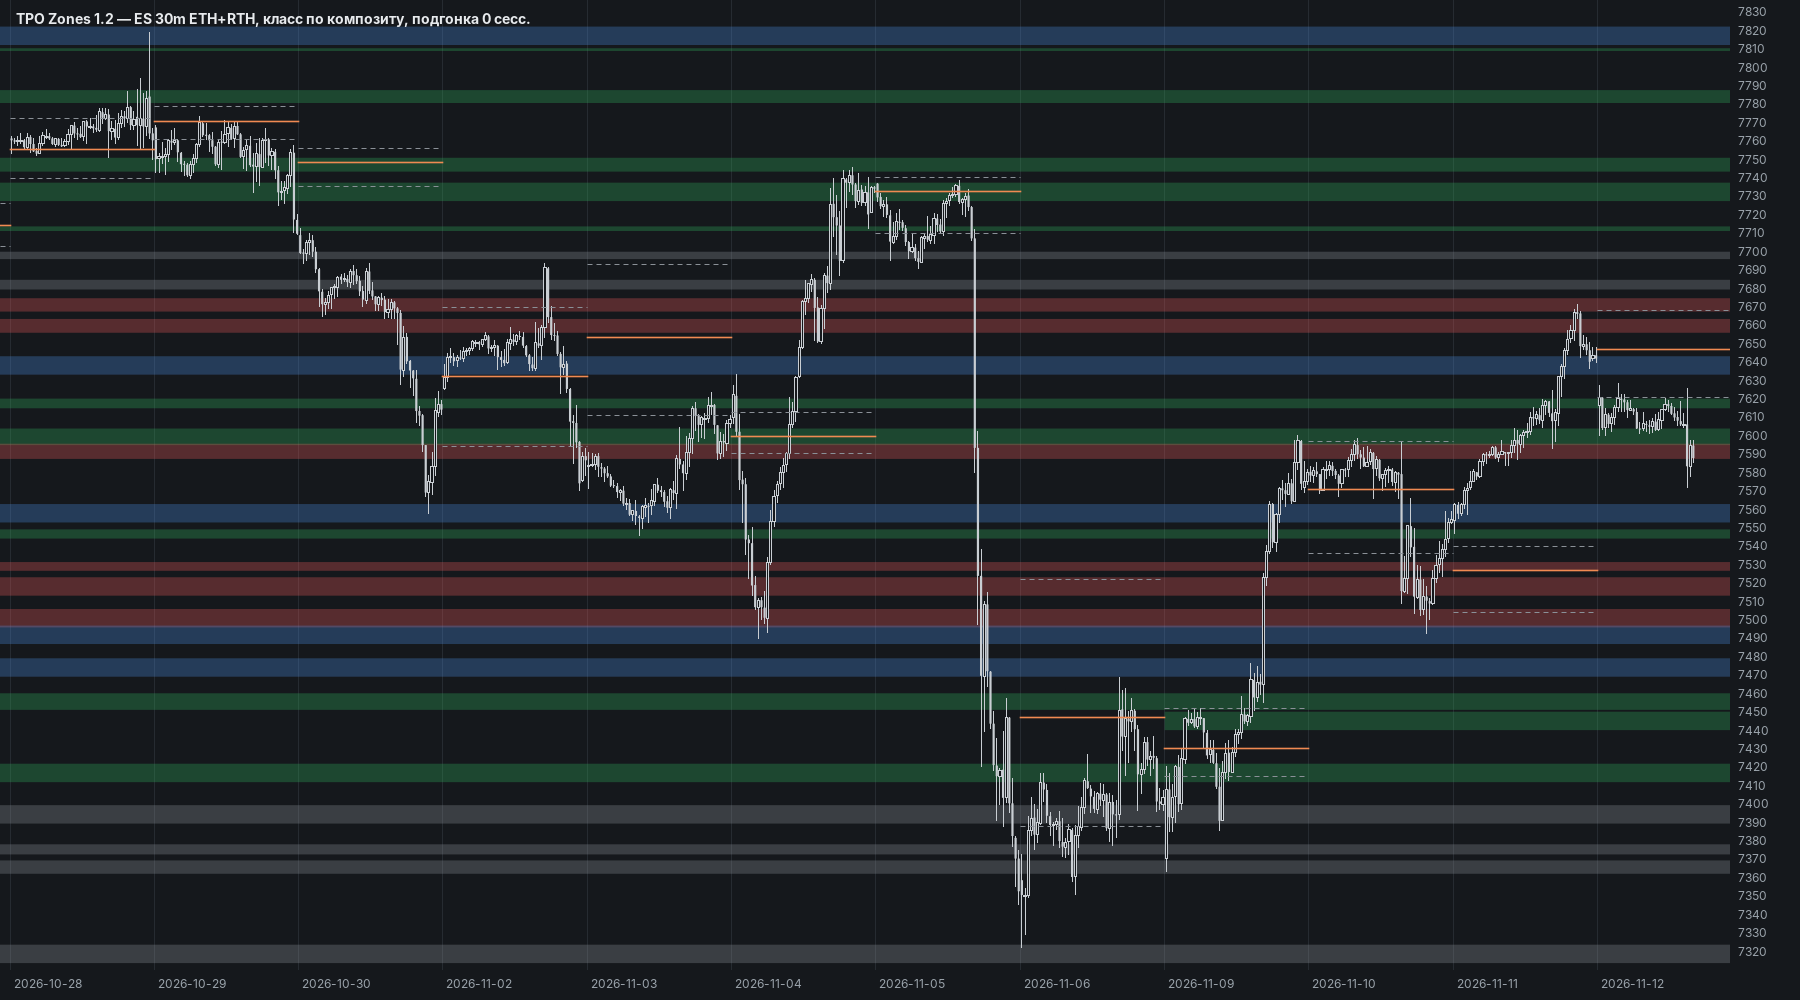
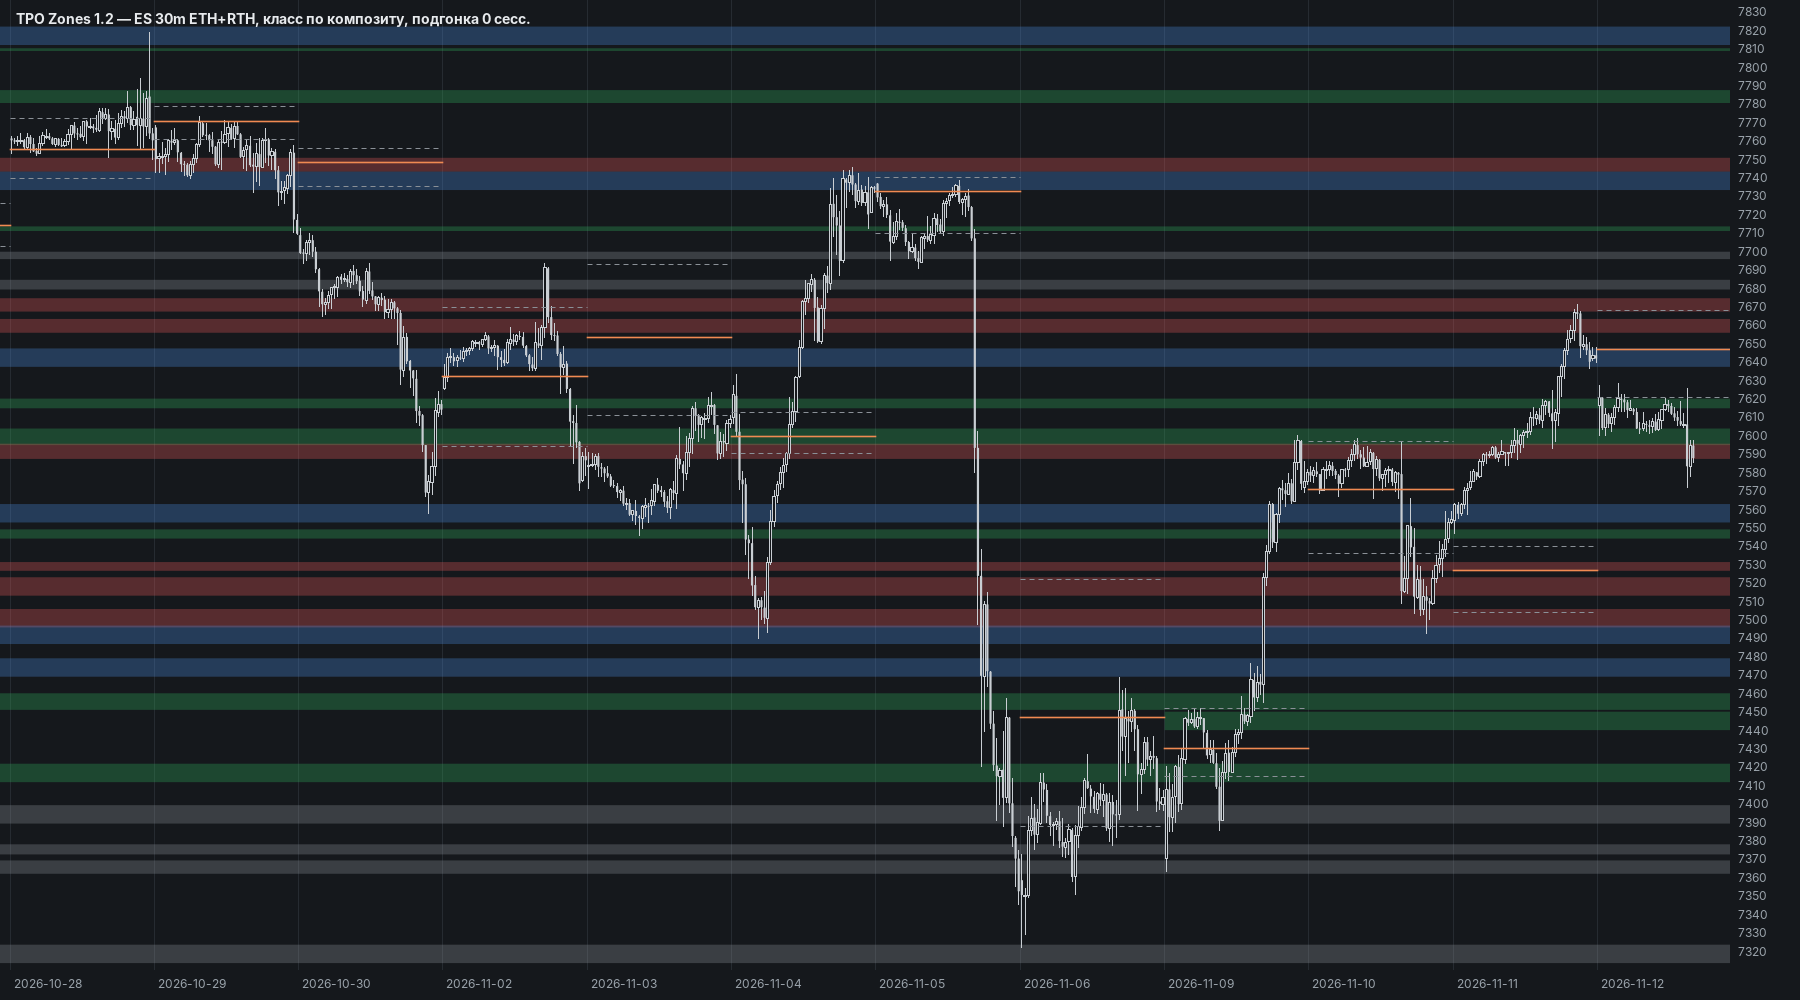
1.2: core window by days touched; zones born in a composite join it
The core window was chosen by summed coverage, so two deeply overlapping
days could beat three that meet; the 2026-08-20..26 range then failed the
balance filter. The window now goes where the most days' HVN bands touch it
(then coverage, TPO, POC distance): 41 composites dropped instead of 79.
A zone that appears during a composite (from its first day until it forms)
switches to that composite once it forms, so a range gets resistance above
and support below its core.

Claude-Session: https://claude.ai/code/session_01PTkoju45i5ZphCgSn4vnkL

Changed region(s): [[0.0, 0.155, 0.9644, 0.217], [0.0, 0.341, 0.9644, 0.372]]

diff --git a/motivewave/src/patterns/zones/ZoneEngine.java b/motivewave/src/patterns/zones/ZoneEngine.java
@@ -537,9 +537,9 @@ public final class ZoneEngine {
         }
     }
 
-    /** Ядро по сессионным профилям: окно шириной w тиков внутри диапазона композита, которое
-     *  дневные HVN-полосы его дней накрывают больше всего (сумма по строкам: сколько дней накрывает
-     *  строку); при равенстве — с наибольшим TPO композита, затем ближе к POC композита. */
+    /** Ядро по сессионным профилям: окно шириной w тиков внутри диапазона композита, которое задевает
+     *  больше всего дневных HVN-полос его дней; при равенстве — сильнее накрытое (сумма по строкам:
+     *  сколько дней накрывает строку), затем с наибольшим TPO композита, затем ближе к POC композита. */
     static int[] sessionWindow(List<Day> days, Profile cp, int w) {
         int n = cp.counts.length;
         w = Math.min(w, n - 1);
@@ -550,12 +550,15 @@ public final class ZoneEngine {
         }
         for (int i = 1; i <= n; i++) cov[i] += cov[i - 1];
         int poc = pocIndex(cp);
-        long bestC = -1, bestT = -1; int bestLo = 0; double bestD = Double.MAX_VALUE;
+        long bestC = -1, bestT = -1; int bestLo = 0, bestH = -1; double bestD = Double.MAX_VALUE;
         for (int lo = 0; lo + w < n; lo++) {
             long c = 0, t = 0;
             for (int i = lo; i <= lo + w; i++) { c += cov[i]; t += cp.counts[i]; }
+            int h = 0;
+            for (Day dd : days) if (dd.bandLo <= cp.low + lo + w && dd.bandHi >= cp.low + lo) h++;
             double d = Math.abs(lo + w / 2.0 - poc);
-            if (c > bestC || (c == bestC && (t > bestT || (t == bestT && d < bestD)))) { bestC = c; bestT = t; bestLo = lo; bestD = d; }
+            boolean better = h != bestH ? h > bestH : c != bestC ? c > bestC : t != bestT ? t > bestT : d < bestD;
+            if (better) { bestH = h; bestC = c; bestT = t; bestLo = lo; bestD = d; }
         }
         return new int[]{cp.low + bestLo, cp.low + bestLo + w};
     }
@@ -713,6 +716,11 @@ public final class ZoneEngine {
             int gi = lowerBound(z.govAv, z.avOrd() + 1) - 1;
             if (gi < 0 && z.govAv.length > 0) gi = 0;
             if (gi >= 0 && z.govAv[gi] > o) gi = -1;          // этот композит ещё не сложился — пока серая
+            // зона, родившаяся во время композита, переходит к нему, когда он сложится
+            for (int k = z.gov.length - 1; k >= 0; k--) {
+                Comp c = z.gov[k];
+                if (!c.start.isAfter(z.av) && !z.av.isAfter(c.av)) { if (c.av.toEpochDay() <= o) gi = k; break; }
+            }
             Kind kind;
             if (gi < 0) kind = Kind.GREY;
             else {

diff --git a/motivewave/parity/Preview.java b/motivewave/parity/Preview.java
@@ -25,7 +25,7 @@ import patterns.zones.ZoneEngine.Result;
 import patterns.zones.ZonePlan;
 
 /** Превью того, что рисует TpoZonesStudy (тот же ZoneEngine + ZonePlan, цвета и прозрачность по умолчанию):
- *  java Preview bars.csv out.png [сессий на картинке] [N подгонки] [выделить топ зон по отторжениям] [comp|rej]
+ *  java Preview bars.csv out.png [сессий на картинке] [N подгонки] [выделить топ зон по отторжениям] [comp|rej] [последний день YYYY-MM-DD]
  *  Топ — тесты и отторжения на всех барах (ETH + RTH) показанных сессий, обводка пунктиром.
  *  Ось времени — по барам (без пустых выходных), как у MotiveWave. */
 public class Preview {
@@ -37,6 +37,10 @@ public class Preview {
                 bars.add(new Bar(Long.parseLong(f[0]), Double.parseDouble(f[1]), Double.parseDouble(f[2]),
                         Double.parseDouble(f[3]), Double.parseDouble(f[4])));
             }
+        }
+        if (a.length > 6) {                            // последний день картинки: как выглядело вживую на эту дату
+            long end = java.time.LocalDate.parse(a[6]).plusDays(1).atTime(16, 0).atZone(java.time.ZoneId.of("America/Chicago")).toInstant().toEpochMilli();
+            bars.removeIf(b -> b.t >= end);
         }
         int k = a.length > 2 ? Integer.parseInt(a[2]) : 5;
         Params p = new Params();

diff --git a/motivewave/README.md b/motivewave/README.md
@@ -38,7 +38,9 @@
   существующее (≥ 50% от более узкого), не рисует новую зону, а подтверждает старую;
 - HVN- и серые зоны внутри диапазона композита: **выше ядра — сопротивление** (красные),
   **ниже — поддержка** (зелёные). Класс фиксируется по композиту, в котором зона оказалась
-  при появлении, и больше не меняется;
+  при появлении; зона, родившаяся во время композита (между его первым днём и днём, когда он
+  сложился), один раз переходит к нему, когда он сложится (пример — ренж 20.08–26.08: ядро
+  7733.75–7743.75, сопротивление 7743.75–7751.25 над ним, поддержка 7711.50–7714 под ним);
 - зона, на > 30% своей ширины лежащая на видимом ядре, им поглощается (не рисуется);
   зона из серого источника, лежащая на первородной, тоже;
 - зоны вне всех композитов — серые, пока их не накроет композит.
@@ -52,13 +54,15 @@
 (настройка, 0 — любой композит). Иначе ядра нет и композит не делит цену на поддержку /
 сопротивление — так отсеиваются «композиты» от трендового дня, закрытия следующих дней в
 широком диапазоне которого попадают внутрь (пример: 17.06–22.06, диапазон 132 п., POC дней
-7628 / 7608 / 7586). Отсеивается 79 из 173 (медиана диапазона 126 п. против 77 у балансов);
+7628 / 7608 / 7586). Окно ядра ставится туда, где его задевает больше всего дней композита
+(затем — сильнее накрытое, больше TPO, ближе к POC). Отсеивается 41 из 173 (медиана диапазона
+133 п. против 85 у балансов);
 зоны внутри них остаются серыми, пока их не накроет настоящий баланс.
 
 **Соседи склеиваются:** новое ядро, касающееся существующего (зазор ≤ 0.25 п.), — его
 подтверждение; зона поддержки / сопротивления вплотную к более старой видимой зоне того же
 вида не рисуется. Сплошных одноцветных блоков шире 10 п. на последних 250 сессиях нет;
-зон на сессию 47, пересекающихся пар 2.3. Подгонка по телам свечей в этом режиме зону
+зон на сессию 48, пересекающихся пар 2.3. Подгонка по телам свечей в этом режиме зону
 не расширяет (≤ 10 п.), но добавляет зон и пересечений (11 на сессию), поэтому выключена.
 
 **Ширина зон — не больше 10 п.** (вкладка «Расчёт», 0 — без лимита). HVN-полоса дня и ядро
